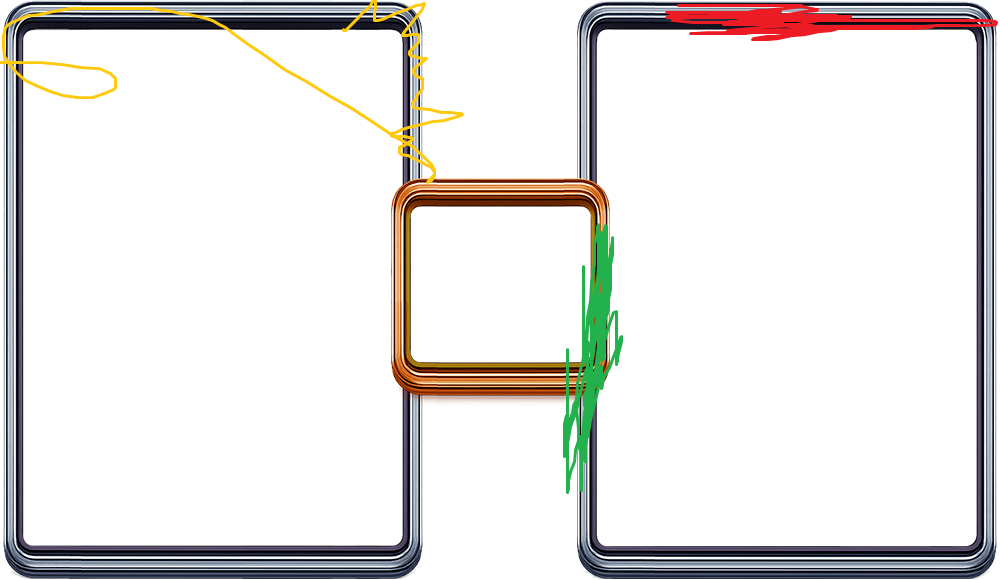
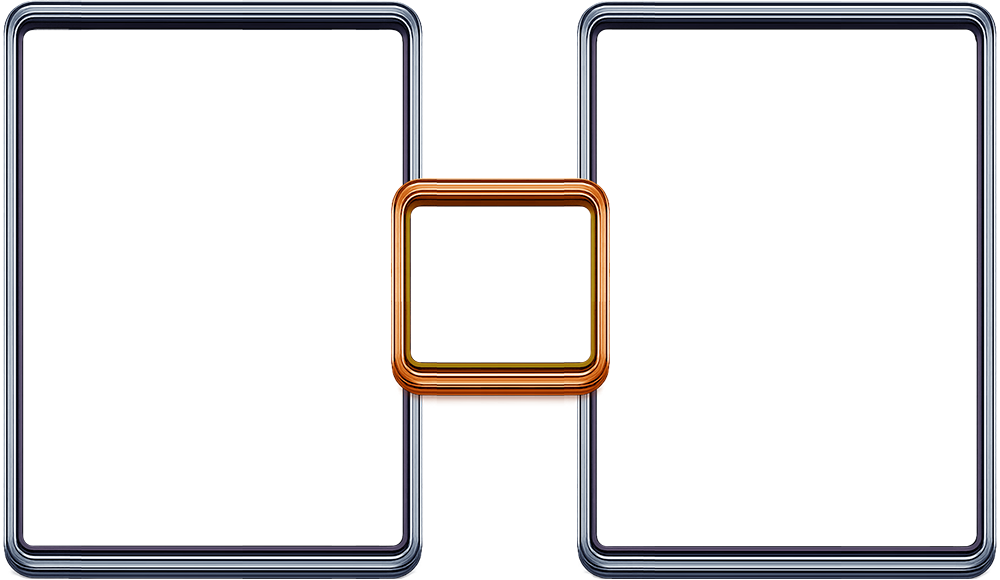
Fix Android portrait control panel layout - BET controls now on right side of PLAY button

diff --git a/apps/oma-peli/src/components/HelloPixi.svelte b/apps/oma-peli/src/components/HelloPixi.svelte
@@ -297,28 +297,9 @@
     display: none !important;
   }
   
-  /* Skaalataan debug ja control panel mobiilissa */
-  @media (max-width: 768px) {
-    .control-panel-mobile {
-      transform: scale(0.8) !important;
-      transform-origin: bottom center !important;
-    }
-  }
-  
   /* Mobiili portrait-tila - pelialue isompi, kontrollit alareunaan */
+  /* HUOM: Sijainti tulee nyt layoutConfig.ts:stä - CSS ei enää ylikirjoita */
   @media (max-width: 768px) and (orientation: portrait) {
-    .control-panel-mobile {
-      position: fixed !important;
-      bottom: 5px !important;
-      top: auto !important;
-      left: 50% !important;
-      transform: translateX(-50%) scale(0.85) !important;
-      transform-origin: bottom center !important;
-      width: 98vw !important;
-      max-width: 500px !important;
-      z-index: 2000 !important;
-    }
-    
     /* Debug-nappi pienemmmäksi ja yläkulmaan */
     button[style*="position: absolute"][style*="z-index: 10000"] {
       position: fixed !important;
@@ -357,13 +338,8 @@
   }
   
   /* Mobiili landscape-tila - myös yksinkertaistettu layout */
+  /* HUOM: Sijainti tulee nyt layoutConfig.ts:stä - CSS ei enää ylikirjoita */
   @media (max-width: 768px) and (orientation: landscape) {
-    .control-panel-mobile {
-      transform: scale(0.80) !important;
-      width: 75vw !important;
-      max-width: 500px !important;
-    }
-    
     .desktop-controls {
       display: none !important;
     }
@@ -3059,7 +3035,7 @@
     position: relative;
     gap: {20 * gameScale}px;
   ">
-    <!-- Vasen puoli (BET ja BALANCE) -->
+    <!-- Vasen puoli (BET desktop/landscape, BALANCE, tai Menu portrait) -->
     <div style="flex: 1; display: flex; align-items: center; justify-content: space-around; min-width: 0;">
       <!-- Menu nappi (näkyy vain mobiilissa, vasemmalla) -->
       <div class="hide-on-desktop" style="display: none; align-items: center; justify-content: center; margin-right: {10 * gameScale}px;">
@@ -3079,7 +3055,8 @@
         ></button>
       </div>
       
-      <!-- BET kontrollit -->
+      <!-- BET kontrollit (desktop ja landscape) -->
+      {#if deviceType() !== 'android-portrait' && deviceType() !== 'iphone-portrait'}
       <div style="display: flex; flex-direction: column; align-items: center;">
         <div style="color: #00ff00; font-size: {12 * gameScale}px; font-weight: bold; line-height: 1; height: {16 * gameScale}px; display: flex; align-items: flex-end; padding-bottom: {2 * gameScale}px;">BET</div>
         <div style="display: flex; gap: {5 * gameScale}px; align-items: center; height: {44 * gameScale}px;">
@@ -3123,6 +3100,7 @@
           ></button>
         </div>
       </div>
+      {/if}
       
       <!-- Divider -->
       <img 
@@ -3207,8 +3185,55 @@
       </div>
     </div>
     
-    <!-- Oikea puoli (Autoplay, Spin Speed, WIN, Menu) -->
+    <!-- Oikea puoli (BET portrait, Autoplay, Spin Speed, WIN, Menu) -->
     <div style="flex: 1; display: flex; align-items: center; justify-content: space-around; min-width: 0;">
+      <!-- BET kontrollit (portrait-mobiili) -->
+      {#if deviceType() === 'android-portrait' || deviceType() === 'iphone-portrait'}
+      <div style="display: flex; flex-direction: column; align-items: center;">
+        <div style="color: #00ff00; font-size: {12 * gameScale}px; font-weight: bold; line-height: 1; height: {16 * gameScale}px; display: flex; align-items: flex-end; padding-bottom: {2 * gameScale}px;">BET</div>
+        <div style="display: flex; gap: {5 * gameScale}px; align-items: center; height: {44 * gameScale}px;">
+          <button
+            on:click={decreaseBet}
+            style="
+              width: {40 * gameScale}px;
+              height: {40 * gameScale}px;
+              background-image: url('{controlsPath}/Control_lowerbet_select.png');
+              background-size: contain;
+              background-repeat: no-repeat;
+              border: none;
+              cursor: pointer;
+              background-color: transparent;
+            "
+            title="Decrease Bet"
+          ></button>
+          <div style="
+            color: #fff;
+            font-size: {18 * gameScale}px;
+            font-weight: bold;
+            min-width: {80 * gameScale}px;
+            text-align: center;
+            font-family: 'Courier New', monospace;
+          ">
+            {betAmount.toFixed(2)}
+          </div>
+          <button
+            on:click={increaseBet}
+            style="
+              width: {40 * gameScale}px;
+              height: {40 * gameScale}px;
+              background-image: url('{controlsPath}/Control_upperbet_select.png');
+              background-size: contain;
+              background-repeat: no-repeat;
+              border: none;
+              cursor: pointer;
+              background-color: transparent;
+            "
+            title="Increase Bet"
+          ></button>
+        </div>
+      </div>
+      {/if}
+      
       <!-- Autoplay nappi -->
       <div class="hide-on-mobile" style="display: flex; flex-direction: column; align-items: center; gap: {5 * gameScale}px;">
         <button

diff --git a/apps/lines/src/game/bookEventHandlerMap.ts b/apps/lines/src/game/bookEventHandlerMap.ts
@@ -1,5 +1,3 @@
-import _ from 'lodash';
-
 import { recordBookEvent, checkIsMultipleRevealEvents, type BookEventHandlerMap } from 'utils-book';
 import { stateBet, stateUi } from 'state-shared';
 import { sequence } from 'utils-shared/sequence';
@@ -99,15 +97,15 @@ export const bookEventHandlerMap: BookEventHandlerMap<BookEvent, BookEventContex
 		eventEmitter.broadcast({ type: 'drawerFold' });
 	},
 	updateFreeSpin: async (bookEvent: BookEventOfType<'updateFreeSpin'>) => {
-		eventEmitter.broadcast({ type: 'freeSpinCounterShow' });
 		stateUi.freeSpinCounterShow = true;
+		stateUi.freeSpinCounterTotal = bookEvent.total;
+		
+		eventEmitter.broadcast({ type: 'freeSpinCounterShow' });
 		eventEmitter.broadcast({
 			type: 'freeSpinCounterUpdate',
 			current: bookEvent.amount + 1,
 			total: bookEvent.total,
 		});
-		stateUi.freeSpinCounterTotal = bookEvent.amount + 1;
-		stateUi.freeSpinCounterTotal = bookEvent.total;
 	},
 	freeSpinEnd: async (bookEvent: BookEventOfType<'freeSpinEnd'>) => {
 		const winLevelData = winLevelMap[bookEvent.winLevel as WinLevel];
@@ -153,7 +151,7 @@ export const bookEventHandlerMap: BookEventHandlerMap<BookEvent, BookEventContex
 		const { bookEvents } = bookEvent;
 
 		function findLastBookEvent<T>(type: T) {
-			return _.findLast(bookEvents, (bookEvent) => bookEvent.type === type) as
+			return [...bookEvents].reverse().find((bookEvent) => bookEvent.type === type) as
 				| BookEventOfType<T>
 				| undefined;
 		}
@@ -164,8 +162,8 @@ export const bookEventHandlerMap: BookEventHandlerMap<BookEvent, BookEventContex
 		const lastUpdateGlobalMultEvent = findLastBookEvent('updateGlobalMult' as const);
 
 		if (lastFreeSpinTriggerEvent) await playBookEvent(lastFreeSpinTriggerEvent, { bookEvents });
-		if (lastUpdateFreeSpinEvent) playBookEvent(lastUpdateFreeSpinEvent, { bookEvents });
-		if (lastSetTotalWinEvent) playBookEvent(lastSetTotalWinEvent, { bookEvents });
-		if (lastUpdateGlobalMultEvent) playBookEvent(lastUpdateGlobalMultEvent, { bookEvents });
+		if (lastUpdateFreeSpinEvent) await playBookEvent(lastUpdateFreeSpinEvent, { bookEvents });
+		if (lastSetTotalWinEvent) await playBookEvent(lastSetTotalWinEvent, { bookEvents });
+		if (lastUpdateGlobalMultEvent) await playBookEvent(lastUpdateGlobalMultEvent, { bookEvents });
 	},
 };

diff --git a/apps/ways/src/game/bookEventHandlerMap.ts b/apps/ways/src/game/bookEventHandlerMap.ts
@@ -1,5 +1,3 @@
-import _ from 'lodash';
-
 import { recordBookEvent, checkIsMultipleRevealEvents, type BookEventHandlerMap } from 'utils-book';
 import { stateBet } from 'state-shared';
 import { sequence } from 'utils-shared/sequence';
@@ -143,7 +141,7 @@ export const bookEventHandlerMap: BookEventHandlerMap<BookEvent, BookEventContex
 		const { bookEvents } = bookEvent;
 
 		function findLastBookEvent<T>(type: T) {
-			return _.findLast(bookEvents, (bookEvent) => bookEvent.type === type) as
+			return [...bookEvents].reverse().find((bookEvent) => bookEvent.type === type) as
 				| BookEventOfType<T>
 				| undefined;
 		}
@@ -154,8 +152,8 @@ export const bookEventHandlerMap: BookEventHandlerMap<BookEvent, BookEventContex
 		const lastUpdateGlobalMultEvent = findLastBookEvent('updateGlobalMult' as const);
 
 		if (lastFreeSpinTriggerEvent) await playBookEvent(lastFreeSpinTriggerEvent, { bookEvents });
-		if (lastUpdateFreeSpinEvent) playBookEvent(lastUpdateFreeSpinEvent, { bookEvents });
-		if (lastSetTotalWinEvent) playBookEvent(lastSetTotalWinEvent, { bookEvents });
-		if (lastUpdateGlobalMultEvent) playBookEvent(lastUpdateGlobalMultEvent, { bookEvents });
+		if (lastUpdateFreeSpinEvent) await playBookEvent(lastUpdateFreeSpinEvent, { bookEvents });
+		if (lastSetTotalWinEvent) await playBookEvent(lastSetTotalWinEvent, { bookEvents });
+		if (lastUpdateGlobalMultEvent) await playBookEvent(lastUpdateGlobalMultEvent, { bookEvents });
 	},
 };

diff --git a/apps/oma-peli/src/config/layoutConfig.ts b/apps/oma-peli/src/config/layoutConfig.ts
@@ -86,13 +86,13 @@ export const LAYOUT_ANDROID_PORTRAIT: LayoutConfig = {
   gameArea: {
     width: 1445,
     height: 1000,
-    scale: 0.95,            // Pelialue 95% selainikkunasta
+    scale: 1.0,            // Pelialue 95% selainikkunasta
     offsetX: 0,
     offsetY: -20,
   },
   controlPanel: {
     x: 250,
-    y: 820,                 // Alemmas mobiilissa
+    y: 790,                 // Alemmas mobiilissa
     width: 1100,
     height: 70,             // Matalampi
     scaleX: 0.85,

diff --git a/apps/scatter/src/game/types.ts b/apps/scatter/src/game/types.ts
@@ -1,7 +1,7 @@
 import { type CascadingReelSymbolState } from 'utils-slots';
 import type config from './config';
 
-export type SymbolName = keyof typeof config.symbols;
+export type SymbolName = keyof typeof config.symbols | 'M_TAKEN';
 export type RawSymbol = { name: SymbolName; multiplier?: number; scatter?: boolean };
 export type BetMode = keyof typeof config.betModes;
 export type GameType = keyof typeof config.paddingReels;

diff --git a/apps/scatter/src/components/Board.svelte b/apps/scatter/src/components/Board.svelte
@@ -47,7 +47,7 @@
 					if (reelSymbol.rawSymbol.name === 'M') {
 						reelSymbol.rawSymbol = {
 							...reelSymbol.rawSymbol,
-							name: 'M_TAKEN', // TODO fix type error
+							name: 'M_TAKEN',
 						};
 					}
 				});
